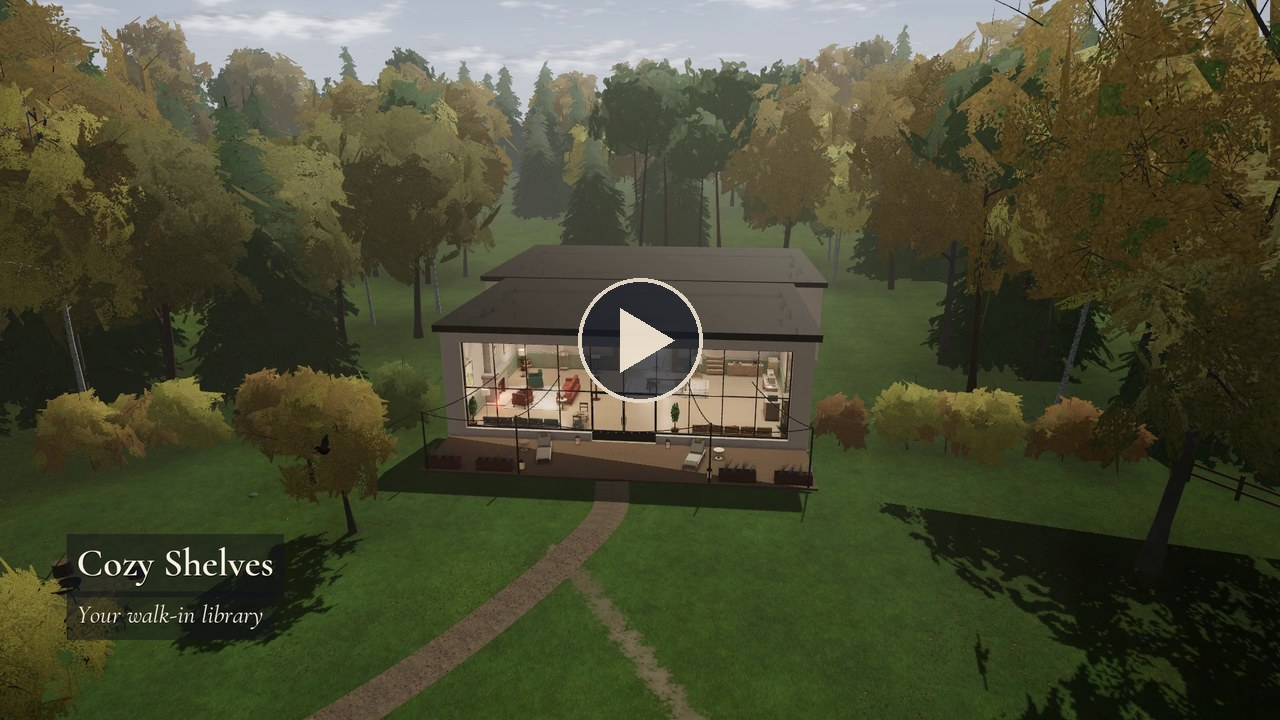
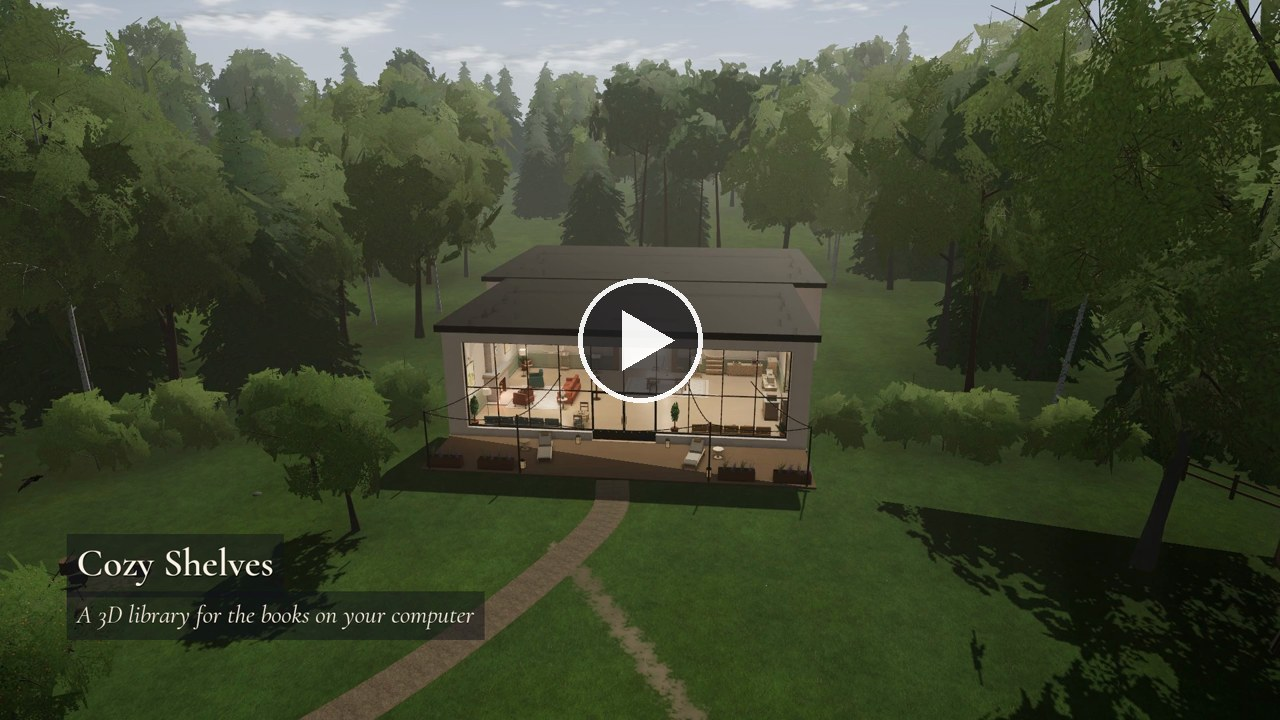
Fix paging in long PDFs, plainer texts, new demo poster

diff --git a/app/src/ui/menu.js b/app/src/ui/menu.js
@@ -38,7 +38,7 @@ const GUIDE = {
     ['Moving', 'Walk with <kbd>W</kbd> <kbd>A</kbd> <kbd>S</kbd> <kbd>D</kbd> or the arrow keys and look around with the mouse. <kbd>Shift</kbd> makes you walk faster, <kbd>Space</kbd> makes you jump, also onto tables, chairs, armchairs and the sofa. Click into the view so that the mouse steers your gaze. After that a click uses what you look at: a book on the shelf shows its book info, a chair near you seats you, everything else responds as to <kbd>E</kbd>. When the dot in the middle of the view turns into a small ring, you can use the thing, and a small label below names it and its key. <kbd>Esc</kbd> opens this menu, <kbd>G</kbd> the list of places you can go to directly; the department wheel (<kbd>Tab</kbd>) shows the same places when you move the mouse into its centre.'],
     ['Controller', 'With a controller (Xbox, PlayStation and others) you use everything without a keyboard. The left stick walks, the right stick looks around, <kbd>A</kbd> uses things like <kbd>E</kbd>, <kbd>B</kbd> goes back, <kbd>X</kbd> jumps, <kbd>Y</kbd> opens the basket. LB and RB read a book or show its info, the D-pad steps to the next book, LT aims more finely, RT zooms in. Start opens the menu, View the places, held the department wheel. In panels the D-pad moves a frame, A presses, B goes back, LB and RB switch tabs, and a text field gets an on-screen keyboard. Pressing the right stick shows a mouse pointer, for the chess board for example. While you use the controller, the hints show its buttons. Settings → Controller lists all buttons.'],
     ['Book room', 'The passage in the south wall of the hall leads into the book room. All departments stand along its walls, starting on the left as you enter and going clockwise, each under a sign with its name. The board in the passage shows which wall holds which department, and the top right of the screen names the department in front of you. The department wheel takes you straight there: hold <kbd>Tab</kbd>, move the mouse to the department you want and release the key. If you only tap <kbd>Tab</kbd>, the wheel stays open, and you choose with a click, with the arrow keys and <kbd>Enter</kbd> or with the number keys. The centre of the wheel says “Places”: move the mouse into the centre or press <kbd>Q</kbd>, and the wheel shows every place of the library instead of the departments, ordered as under Places (<kbd>G</kbd>); you go there the same way. The centre once more, or <kbd>Q</kbd>, brings the departments back. The “Recently read” case stands right next to the passage, and the wheel entry of the same name takes you there. An LED strip lights every shelf, and recommendations with a cover lie on the sloped board in front of the cases, your must-read books first. At the start and the end of every row and next to a gap, the books show their covers on their sides as well. New books in your folders are shelved automatically. When a large library does not fit the walls, one department stands in the room, and the wheel switches it.'],
-    ['Books', 'When you look at a book on a shelf, it slides out a little and turns its cover towards you, stopping just short so that its spine and pages stay in view, and shows the whole cover. Right of the middle the cover stands on its own, with the keys below it. <kbd>E</kbd> takes it out and puts it in your basket, <kbd>R</kbd> opens it right away, <kbd>F</kbd> or a click shows details about the book, where you can also change its department and shelf. <kbd>B</kbd> opens the basket, which holds up to twelve books; the bottom left shows what is in it. Your folders are the departments, their sub folders the shelves. A shortcut to a book, for example in a folder “00 Must-Read”, makes it a must-read.'],
+    ['Books', 'When you look at a book on a shelf, it slides out a little and turns its cover towards you, stopping just short so that its spine and pages stay in view, and shows the complete cover. Right of the middle the cover stands on its own, with the keys below it. <kbd>E</kbd> takes it out and puts it in your basket, <kbd>R</kbd> opens it right away, <kbd>F</kbd> or a click shows details about the book, where you can also change its department and shelf. <kbd>B</kbd> opens the basket, which holds up to twelve books; the bottom left shows what is in it. Your folders are the departments, their sub folders the shelves. A shortcut to a book, for example in a folder “00 Must-Read”, makes it a must-read.'],
     ['Covers from the internet', 'Books without a cover get one from book catalogues (Open Library, Goodreads, Apple Books, the German National Library, the Internet Archive, Amazon), otherwise from the image search of Bing, Yandex and DuckDuckGo. In the settings under Book folders, “Load all covers now” loads them all at once, and many books ask different catalogues at the same time. In the book info, “Choose another cover” picks another picture, a picture of your own or the generated title card. The catalogues also add the author, year, publisher, ISBN, series and volume when the book does not name them itself.'],
     ['Read books and order', 'The “Read” shelf stands left of the passage in the book room. It holds the books you have read to 97 % or marked as read with <kbd>C</kbd>, the latest first. Press <kbd>C</kbd> again to put a book back in its department. The book info does both with “Mark as read” and “Mark as unread”. The statistics on the computer show your reading goal and your reading streak, the days in a row with at least 5 minutes of reading. Under Settings → Book folders you set the reading goal and choose how the books stand in every shelf: by title, author, year, publisher, series, recently added or recently read. A book that exists twice, in two folders or as EPUB and PDF, stands on the shelves once. The list “Duplicate books” shows every copy with its folder; nothing is deleted.'],
     ['Reading', 'Sit down with <kbd>E</kbd> or a click at a table, in an armchair, on a window seat or a bench. If “Lay out the book you opened last at your seat” is on in the settings under Book folders, the book you opened last lies in front of you: look at it and press <kbd>E</kbd> or click it to read it full screen. Otherwise open a book with <kbd>R</kbd> at the shelf or from the basket. Inside a book the arrow keys turn the pages. <kbd>B</kbd> sets a bookmark, <kbd>T</kbd> opens contents, notes and search, <kbd>V</kbd> reads aloud, <kbd>S</kbd> sets font, font size, page width and colours, <kbd>Ctrl</kbd>+<kbd>+</kbd> and <kbd>Ctrl</kbd>+<kbd>−</kbd> change the font size, <kbd>X</kbd> shows a PDF as flowing text in your font and back as pages. Selected text can be saved as a note, looked up in the dictionary or translated. Links in a book open the page in the reading view, <kbd>Alt</kbd>+<kbd>←</kbd> goes back. A book you read at your seat stays open in front of you. <kbd>Space</kbd> or <kbd>W</kbd> <kbd>A</kbd> <kbd>S</kbd> <kbd>D</kbd> stands you up again.'],
@@ -53,7 +53,7 @@ const GUIDE = {
     ['In the hall', 'The north wall is a glass front with window seats, outside lie the terrace, the garden and the lake. The glazed doors in its middle lead out onto the terrace; they open as you walk up to them and swing away from you. You can lie down on the loungers. Choose background music at the record player on the sideboard and listen to podcasts at the radio. A podcast that is playing shows in the small player at the bottom right. There you pause it, jump 15 seconds back or forward, open the podcasts or stop it. The library cat sleeps on the armchairs, the sofa and the window seat and changes places now and then. Look at it and press <kbd>E</kbd> to pet it. The encyclopedia on the lectern is Wikipedia. The easel is a watercolour studio; its canvas shows the picture you painted last. Hang a finished painting on the wall with “Hang”, and when you look at a picture on the wall, <kbd>E</kbd> lets you choose another one. At the chess table you play against Stockfish or solve tactics puzzles. The clock above the fireplace shows your computer’s time. Every lamp goes off and on again with <kbd>E</kbd> or a click, and the library remembers it. Light, warmth, weather and time of day are in the settings, including the golden hour with a low evening sun whose rays fall through the glass front.'],
     ['Garden', 'A gravel path leads across the lawn to the lake and onto a wooden jetty with a bench, a trail up a small hill with a second bench. Sit down on the benches with <kbd>E</kbd> or a click. West of the lawn a fire bowl stands among four log stumps. The fire burns from dusk to morning; <kbd>E</kbd> at the bowl lights it or puts it out. Under Places (<kbd>G</kbd>), “Jetty on the lake”, “Fire bowl” and the benches take you straight there. Choose the season under Settings → Light & weather: By calendar, Spring, Summer, Autumn or Winter. In spring the fruit trees blossom, in summer the water lilies, in autumn the leaves turn, in winter snow lies on the ground. In the snow you, the birds and the wild animals leave tracks that blow over after a few minutes. In winter the lake is frozen and carries you. From the shore or the jetty you walk out onto the ice and slide a little there; <kbd>Space</kbd> jumps you back up onto the jetty.'],
     ['Animals in the garden', 'Roe deer, red deer, foxes and rarely a wolf often come out of the wood, also in front of the windows of the book room. On the meadow east of the lawn stands a feeding station with a hay rack and a salt lick. In the wildlife hide in front of it <kbd>E</kbd> seats you on the bench to watch them feed; under Places (<kbd>G</kbd>), “Feeding station” takes you straight there. If you walk towards the animals outside, they look up. Come too close and they trot off a little way, stop within sight, look back at you and then find another place to feed. Sparrows, finches, tits, blackbirds, crows and jackdaws live in the garden, a buzzard circles above it and in summer swallows hunt over the meadow and the lake. Come too close outside and they fly off. Koi swim in the lake and come to the jetty when you stand on it, and at dusk frogs sit on the lily pads. In the settings you choose how often the wild animals come.'],
-    ['Sky and weather', 'In Settings → Light & weather you choose the time of day: Real time, Day–night cycle, Day only, Night only, Fixed time or Golden hour. For the cycle, Day only and Night only you set how long a day or a night lasts, from 10 minutes to 2 hours. For the weather you choose Clear, Overcast, Rain, Thunderstorm or Snow and add fog and wind where they fit. What does not fit is greyed out with the reason below it. With Changing, the weather changes by itself every 10 to 30 minutes, and the switches below decide what may come. Snow then falls only in winter, thunderstorms come at any time of day. Like outside shows the real weather at a place you enter (Open-Meteo, needs the internet). On clear nights the stars and the Milky Way fill the sky, and the moon shows the phase of today’s date. The terrace and the jetty give the best view.'],
+    ['Sky and weather', 'In Settings → Light & weather you choose the time of day: Real time, Day–night cycle, Day only, Night only, Fixed time or Golden hour. For the cycle, Day only and Night only you set how long a day or a night lasts, from 10 minutes to 2 hours. For the weather you choose Clear, Overcast, Rain, Thunderstorm or Snow and add fog and wind where they fit. What does not fit is greyed out with the reason below it. With Changing, the weather changes by itself every 10 to 30 minutes, and the switches below decide what may come. Snow then falls only in winter, thunderstorms come at any time of day. Like outside shows the real weather at a place you enter (Open-Meteo, needs the internet). On clear nights the stars and the Milky Way are visible in the sky, and the moon shows the phase of today’s date. The terrace and the jetty give the best view.'],
     ['Sound', 'Under Settings → Sound, music, surroundings and effects each have a volume. What you hear comes from the world: rain only when it rains, thunder after the lightning, the fireplace and the clock near them, birds in the garden by day, frogs at dusk and crickets on summer nights. Your footsteps sound like the ground you walk on. In the same panel you can switch single sounds off, such as rain, birds or footsteps. What is off stays silent, everything else still follows the world.'],
     ['World map', 'A world map hangs on the back wall of the book room. Look at it, also from a few steps away, and press <kbd>E</kbd> or click: it opens with profiles of countries and cities, Wikipedia summaries and Google Street View. If the crosshair rests on a country, its profile opens right away. Under Places (<kbd>G</kbd>), “World map” takes you in front of it. The arrows at the top left, <kbd>Alt</kbd>+<kbd>←</kbd> and <kbd>Alt</kbd>+<kbd>→</kbd> step through the profiles you opened. Drag to move the map, the mouse wheel zooms, <kbd>/</kbd> jumps to the search, <kbd>Esc</kbd> closes Street View, the profile and the map in turn.'],
     ['Appearance', 'Settings → General, and System on the computer, offer Light, Sepia and Dark for all panels and menus. Sepia, a warm paper tone, is the default, Dark a calm charcoal. The pages of a book follow the appearance until you pick a page colour in the Aa menu: White, Paper, Sepia or Night, also for PDF pages.'],

diff --git a/app/src/ui/reader/pdf-text-view.js b/app/src/ui/reader/pdf-text-view.js
@@ -345,7 +345,7 @@ export async function createTextView(o) {
       const secLang = sample.length > 80 ? chooseLanguage(sample, { meta: o.lang, ui: o.uiLang }).lang : (lang.slice(0, 2) || 'de');
       const hyphenate = await hyphenator(secLang);
       const { html, tookLead } = buildSection(models, { nextPage: nextModel, skipLead, figureHtml, pageHtml, hyphenate });
-      if (k + 1 < ranges.length) d.lead.set(k + 1, tookLead);
+      if (k + 1 < ranges.length && !d.lead.has(k + 1)) d.lead.set(k + 1, tookLead);
       const title = esc(info.outline.find((it) => it.page === first)?.label || o.title || '');
       const doc = `<!DOCTYPE html><html lang="${esc(secLang)}"><head><meta charset="utf-8"><title>${title}</title><style>${TV_CSS}</style></head><body class="tv">${filterDefs()}\n${html}</body></html>`;
       const url = URL.createObjectURL(new Blob([doc], { type: 'text/html' }));
@@ -367,7 +367,7 @@ export async function createTextView(o) {
   let current = 0;
   function trim(justBuilt) {
     if (d.imageBytes <= IMAGE_BUDGET) return;
-    const keep = new Set([current - 1, current, current + 1, justBuilt]);
+    const keep = new Set([current - 2, current - 1, current, current + 1, current + 2, justBuilt]);
     const old = [...d.sections.entries()].filter(([k]) => !keep.has(k)).sort((a, b) => a[1].used - b[1].used);
     for (const [k, s] of old) {
       if (d.imageBytes <= IMAGE_BUDGET * 0.8) break;
@@ -419,7 +419,7 @@ export async function createTextView(o) {
     cfi: sectionCfi(k),
     linear: 'yes',
     size: (b - a + 1) * 1500,
-    load: async () => { const s = await buildSectionOf(k); plan(k); return s.url; },
+    load: async () => { current = k; const s = await buildSectionOf(k); plan(k); return s.url; },
     unload: () => {},
     createDocument: async () => new DOMParser().parseFromString((await buildSectionOf(k)).html, 'text/html'),
     resolveHref: (href) => String(href ?? ''),

diff --git a/vendor-src/foliate-js/paginator.js b/vendor-src/foliate-js/paginator.js
@@ -1067,14 +1067,17 @@ export class Paginator extends HTMLElement {
     async #turnPage(dir, distance) {
         if (this.#locked) return
         this.#locked = true
-        const prev = dir === -1
-        const shouldGo = await (prev ? this.#scrollPrev(distance) : this.#scrollNext(distance))
-        if (shouldGo) await this.#goTo({
-            index: this.#adjacentIndex(dir),
-            anchor: prev ? () => 1 : () => 0,
-        })
-        if (shouldGo || !this.hasAttribute('animated')) await wait(100)
-        this.#locked = false
+        try {
+            const prev = dir === -1
+            const shouldGo = await (prev ? this.#scrollPrev(distance) : this.#scrollNext(distance))
+            if (shouldGo) await this.#goTo({
+                index: this.#adjacentIndex(dir),
+                anchor: prev ? () => 1 : () => 0,
+            })
+            if (shouldGo || !this.hasAttribute('animated')) await wait(100)
+        } finally {
+            this.#locked = false
+        }
     }
     prev(distance) {
         return this.#turnPage(-1, distance)

diff --git a/app/src/i18n/en.js b/app/src/i18n/en.js
@@ -1,6 +1,6 @@
 export default {
   'app.title': 'Cozy Shelves',
-  'app.subtitle': 'Your walk-in library',
+  'app.subtitle': 'A library you can walk through',
   'loading': 'Setting up the library …',
   'loading.books': 'Shelving books …',
   'menu.enter': 'Enter the library',
@@ -31,7 +31,7 @@ export default {
   'hud.inBasket': '“{title}” is in your basket. <kbd>B</kbd> opens the basket.',
   'hud.returned': 'All books are back on the shelves.',
   'hud.hung': 'The picture is now hanging on the wall.',
-  'hud.downloaded': 'A new book has arrived – it is being shelved.',
+  'hud.downloaded': 'A new book has arrived and is being shelved.',
   'settings.title': 'Settings',
   'settings.general': 'General',
   'settings.graphics': 'Graphics',

diff --git a/README.de.md b/README.de.md
@@ -528,7 +528,7 @@ Vibration: ein kurzes Rütteln, wenn du ein Buch nimmst, nur bei Controllern, di
   mit dunklen Staubbahnen und helleren Sternwolken über den Himmel. Der Himmel dreht sich mit der Uhrzeit langsam um
   den Polarstern. In der Abenddämmerung erscheinen die Sterne nach und nach, im Morgengrauen verblassen sie. Wolken
   verdecken sie, bei bedecktem Himmel, Regen und Nebel ist keiner zu sehen. Der Mond zeigt die Phase des heutigen
-  Datums, geht auf und unter und spiegelt sich im See. Am schönsten zu sehen von der Terrasse und vom Steg, auch
+  Datums, geht auf und unter und spiegelt sich im See. Am besten zu sehen ist er von der Terrasse und vom Steg, auch
   durch die Glasfront und die Fenster.
 * **Nachts** ist der Garten heller: Blausilbernes Licht von Himmel und Mond liegt über Rasen, Wegen und Bäumen, bei
   Vollmond kräftiger, bei Neumond schwächer, aber nie ganz dunkel. Draußen gewöhnt sich das Auge an die Dunkelheit.
@@ -544,11 +544,11 @@ Vibration: ein kurzes Rütteln, wenn du ein Buch nimmst, nur bei Controllern, di
 * **Lichtstrahlen** (*Einstellungen → Grafik*, an): Das Sonnenlicht wird in der Luft sichtbar. In der Halle fallen
   Strahlen durch die Glasfront und die Glastüren, im Staub zeichnen sich helle Bahnen ab, und einzelne Staubkörnchen
   glitzern dort, wo die Sonne sie trifft. Draußen fällt das Licht in Bahnen durch die Baumkronen und den Waldrand, im
-  Dunst und am schönsten im Nebel. Am kräftigsten sind die Strahlen bei tiefer Sonne. Bewölkung schwächt sie, bei
+  Dunst und am deutlichsten im Nebel. Am kräftigsten sind die Strahlen bei tiefer Sonne. Bewölkung schwächt sie, bei
   Regen, Gewitter und nachts gibt es keine. Die Bäume werfen Schatten auf Rasen, Wege und Steg und durch die Glasfront
   bis in die Halle (ab Qualität „Mittel“ mit eingeschalteten Schatten). Auf „Hoch“ rechnet die App die Strahlen in
   halber Auflösung, auf „Mittel“ in einem Viertel. Auf „Niedrig“ gibt es keine, dort bleiben die einfachen Lichtbahnen
-  an den Fenstern. Am schönsten zu sehen unter *Orte* (`G`): „Glasfront“, „Terrasse“ und „Steg am See“.
+  an den Fenstern. Am besten zu sehen unter *Orte* (`G`): „Glasfront“, „Terrasse“ und „Steg am See“.
 * **Schatten**: Die Schatten der Bäume wandern gleichmäßig mit der Sonne, ohne Sprünge.
 * **Fenster**: Die Lampen spiegeln sich nur noch als schwacher, weicher Schein im Glas. Nachts zeigt das Glas ein
   leises Spiegelbild des Raums, der Blick nach draußen bleibt klar.
@@ -606,14 +606,14 @@ Hörbuch läuft. Mehr dazu unter *Mediathek*.
 * Neue Dateien werden automatisch erkannt (Ordnerüberwachung). Umbenannte oder verschobene Bücher behalten
   Lesestand, Lesezeichen und Notizen.
 * **Cover**: eingebettete Cover bzw. Seite 1 bei PDFs. Ist Seite 1 kein Cover (leer, nur eine Farbe, nur Text wie
-  eine Titelseite oder ein gescanntes Blatt mit Bibliotheksstempel) oder hat das Buch keins, zeigt es eine schlichte
+  eine Titelseite oder ein gescanntes Blatt mit Bibliotheksstempel) oder hat das Buch keins, zeigt es eine einfache
   Titelkarte in seiner Einbandfarbe und bekommt im Hintergrund ein Cover aus dem Internet. Neue Cover erscheinen
   sofort im Regal, an den Seiten der Bücher, auf der Karte rechts und im Katalog.
 * **Cover und Metadaten aus dem Internet**: Bücher ohne echtes Cover bekommen eines aus dem Internet. Zuerst fragt der
   Cozy Shelves die Buchkataloge Open Library, Goodreads, Apple Books, die Deutsche Nationalbibliothek, das Internet Archive
   und Google Books (nur mit eigenem Schlüssel). Für Ausgaben mit ISBN kommt Amazons Bild dazu, eine ASIN im Dateinamen
   gilt wie eine ISBN. Jeder Katalog hat ein eigenes kleines Budget, und jedes Buch fragt den Katalog, der gerade frei
-  ist: Ein Lauf nutzt so alle Kataloge zugleich. Ein Eintrag zählt nur, wenn er wirklich das Buch ist (ISBN, oder Titel
+  ist: Ein Lauf nutzt so alle Kataloge zugleich. Ein Eintrag zählt nur, wenn er das Buch ist (ISBN, oder Titel
   und Autor passen, in der Sprache des Buchs und beim richtigen Band). Lieber kein Cover als ein falsches. Kennt kein
   Katalog das Buch, fragt Cozy Shelves die Bildersuche von Bing, Yandex und DuckDuckGo (strenger Jugendschutzfilter),
   jede mit eigenem kleinem Budget und mit Pause bei jedem Anzeichen einer Drosselung. Das Bild, das die meisten
@@ -780,7 +780,7 @@ hinzufügen“). Cozy Shelves liest sie im Hintergrund ein und erkennt neue Date
   Der kleine Spieler unten rechts zeigt Cover, Titel, Autor und Kapitel. `K` hält an und setzt fort, `J` springt 15
   Sekunden zurück, `L` 30 Sekunden vor, `O` öffnet den Player, `X` beendet das Hörbuch. Die Medientasten der Tastatur
   wirken ebenso, „vorheriger“ und „nächster Titel“ springen zum vorigen und nächsten Kapitel. Es läuft immer nur
-  eines: Ein Hörbuch hält einen Film oder Podcast an und umgekehrt, die Hintergrundmusik pausiert dabei.
+  eines. Ein Hörbuch hält einen Film oder Podcast an und umgekehrt, die Hintergrundmusik pausiert dabei.
 * **Das Hörbuchregal**: An der Südwand der Halle steht zwischen Staffelei und Plattenspieler ein Regal für
   Hörbuch-Boxen, auch bevor es einen Hörbuchordner gibt. Dann sind seine Fächer leer, die Beschriftung sagt
   „Hörbücher · E Öffnen“, und `E` oder ein Klick öffnet die Tafel „Hörbücher“ mit „Hörbuchordner hinzufügen“. Mit
@@ -925,7 +925,7 @@ Ein Film lässt sich auf vier Arten nutzen:
   Richtest du den Blick auf die Leinwand, hält `E` den Film an und setzt ihn fort. Je weiter du dich entfernst,
   desto leiser wird der Ton, im Bücherzimmer ist er noch leise zu hören. Endet der Film, rollt die Leinwand
   wieder ein. Läuft ein Film auf der Leinwand, ruckelt das Herumlaufen in der Halle nicht. Die Farbe des Lichts,
-  das die Leinwand in den Raum wirft, misst Cozy Shelves, ohne dass das Bild darauf wartet: Die Grafikkarte
+  das die Leinwand in den Raum wirft, misst Cozy Shelves, ohne dass das Bild darauf wartet. Die Grafikkarte
   verkleinert das Filmbild auf 16 × 9 Punkte, ein eigener Worker liest nur diese. Bis 0.6 kopierte Cozy Shelves
   dafür fünfmal in der Sekunde das ganze Filmbild von der Grafikkarte, mit einem 1080p-Film im Mittel 18 ms und bis
   über 200 ms lang.
@@ -1044,7 +1044,7 @@ deshalb beim ersten Start einmal auf 1 gesetzt, damit die Bildrate gleich bleibt
 entsprechend mehr Rechenzeit (1,4 etwa die doppelte Pixelzahl).
 
 **Grafikqualität**: Auf „Hoch“ mit Kantenglättung und Umgebungsverdeckung, die Ecken und Regalböden plastischer
-macht. Die Grafikstufe schaltet keine Lampe aus: Auf „Niedrig“ werfen die großen Pendelleuchten und das Kaminfeuer
+macht. Die Grafikstufe schaltet keine Lampe aus. Auf „Niedrig“ werfen die großen Pendelleuchten und das Kaminfeuer
 echtes Licht, auf „Mittel“ auch Steh- und Tischlampen, auf „Hoch“ zusätzlich die Leselampen. Kleinere Lampen ohne
 echtes Licht werfen dann einen kräftigeren Lichtkreis, Wandleuchten und Regal-LEDs leuchten auf jeder Stufe. Auf
 mittlerer Stufe zeichnet der Garten halb so viel Gras, auf niedriger keines, das Laub hat dort harte Ränder.
@@ -1084,7 +1084,7 @@ jetzt laden“ in `web-covers.json`, das ersetzte Cover aus dem Buch als `covers
 ihrem Lesestand in `audiobooks.json`, ihre Tags in `audiobook-tags.json` und ihre Cover in `audiobook-covers\`, der
 Index der Volltextsuche in `fulltext\`, die Auflösungen der Mediathek in `mediathek\heights.json` und in
 `logs\gpu.log` jedes Ende des Grafikprozesses mit Zeit, Grund und Version, `logs\renderer.log` Fehler der Oberfläche.
-Löschen = Werkseinstellungen.
+Wird der Ordner gelöscht, gelten die Werkseinstellungen.
 
 ## Browser-Version
 
@@ -1124,7 +1124,7 @@ Bedienelemente.
 * **Der Bücherordner**: Beim ersten Start öffnet die Willkommenskarte die Ordnerauswahl des Systems; wähle den Ordner
   mit deinen Büchern (seine Unterordner werden Abteilungen und Regale wie auf dem Desktop). Android behält die
   Erlaubnis, der Ordner wird bei jedem Start ohne neue Wahl gelesen; wer den Ordner in den Einstellungen entfernt, gibt
-  sie zurück. Die Bücher verlassen das Handy nie: nichts wird kopiert, nichts verschickt.
+  sie zurück. Die Bücher verlassen das Handy nie. Sie werden weder kopiert noch verschickt.
 * **Steuerung**: Der Stick unten links geht (weit nach außen gedrückt läuft er; die Läuferfigur darüber hält das
   Laufen fest), Ziehen auf der rechten Hälfte sieht sich um, die große Hand benutzt, worauf das Fadenkreuz liegt, die
   Knöpfe daneben lesen, öffnen die Infokarte und springen, Menü und Abteilungsrad sitzen oben links, der Korb-Chip

diff --git a/README.md b/README.md
@@ -27,8 +27,8 @@ keyboard and mouse or with a game controller.
   where each one stands. A library too large for the walls shows one department at a time, and the department wheel
   (hold `Tab`) switches it; otherwise the wheel takes you straight to any department.
 - Books stand at eye level on lit shelves. A book you look at slides out and turns towards you, stopping just short
-  of facing you, so that its spine and the page block stay in view; it takes the proportions of its cover and shows it
-  whole. The cover stands right of the middle without a frame, the keys on a small bar below it: `E` puts the book
+  of facing you, so that its spine and the page block stay in view; it takes the proportions of its cover and shows the
+  complete cover. The cover stands right of the middle without a frame, the keys on a small bar below it: `E` puts the book
   into your basket, `R` opens it, `C` marks it as read.
 - At the start and the end of every row and next to a gap, a book shows its cover on its side as well, trimmed like a
   print and never stretched; a book without a cover shows its title card.
@@ -198,7 +198,7 @@ browser's IndexedDB. Your books never leave your computer; the page only reads t
 * **Browsers**: Edge, Chrome, Opera and other Chromium browsers remember the folder and ask for permission once after a
   restart. Firefox and Safari read the folder through the file dialog and need it again after every restart (the books
   keep their positions). WebGL 2 is required.
-* **In the browser**: the whole world (hall, book room, garden, animals, weather, seasons), the shelves from your folders,
+* **In the browser**: the world (hall, book room, garden, animals, weather, seasons), the shelves from your folders,
   covers out of the books, the reader with bookmarks and notes, the chess books and Stockfish, the computer with all
   games and Lichess, the world map with Wikipedia, the encyclopedia and the dictionary, the easel and the gallery, the
   record player, read-aloud through the browser's own speech output.
@@ -368,7 +368,7 @@ the data and the voice models that are downloaded on use, and the online service
 
 ## Credits
 
-Cozy Shelves stands on the work of many projects: [Electron](https://www.electronjs.org), [three.js](https://threejs.org),
+Cozy Shelves is built on the work of many projects: [Electron](https://www.electronjs.org), [three.js](https://threejs.org),
 [foliate-js](https://github.com/johnfactotum/foliate-js), [PDF.js](https://mozilla.github.io/pdf.js/),
 [chessground](https://github.com/lichess-org/chessground) and [lichess](https://lichess.org),
 [Stockfish](https://stockfishchess.org), [Piper](https://github.com/rhasspy/piper),
